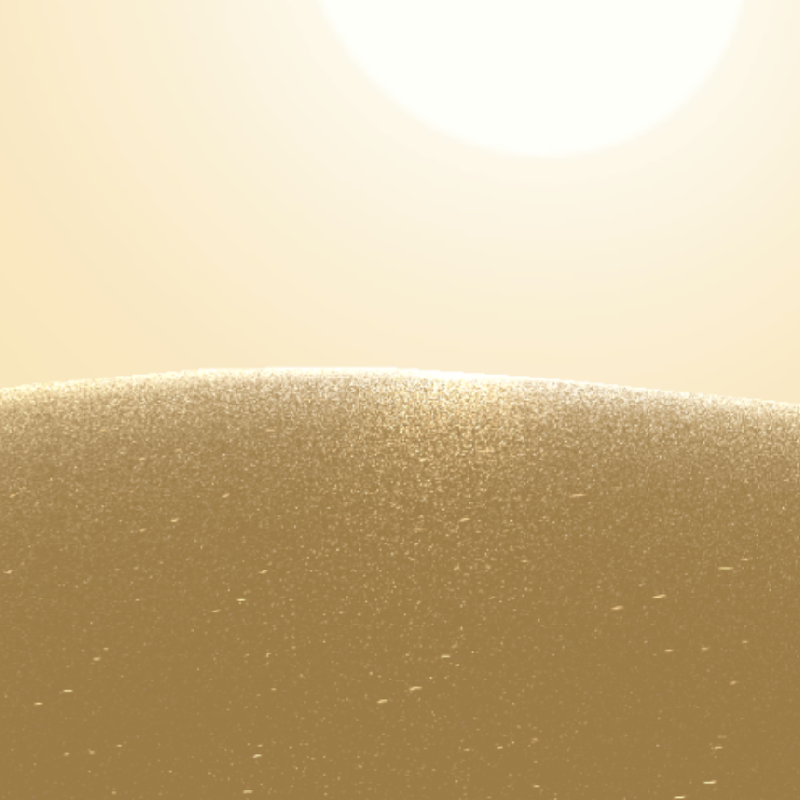
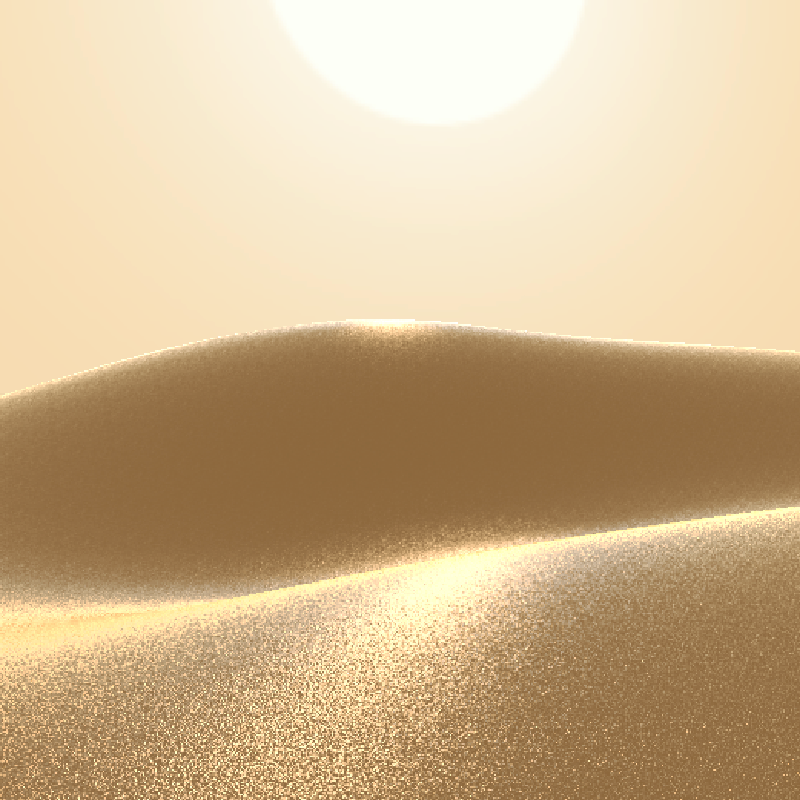
added projects

diff --git a/project_mars.html b/project_mars.html
@@ -1,0 +1,60 @@
+<!DOCTYPE html>
+<html lang="en">
+<head>
+    <!-- Google tag (gtag.js) -->
+    <meta name="viewport" content="width=device-width, initial-scale=1">
+    <title>Portfolio</title>
+    <link rel="icon" type="image/png" href="images/favicon.png" />
+
+    <meta name="description" content="The home of a pizza enthusiast!">
+    <meta property="og:locale" content="en_US" />
+    <meta property="og:type" content="website" />
+    <meta property="og:title" content="Lemon's Corner'" />
+    <meta property="og:description" content="The home of a pizza enthusiast!" />
+    <meta property="og:url" content="https://daneck.carrd.co" />
+    <meta property="og:image" content="" />
+    <meta property="og:image:type" content="" />
+    <meta property="og:site_name" content="Lemon's Corner'" />
+
+    <link rel="preconnect" href="https://fonts.googleapis.com">
+    <link rel="preconnect" href="https://fonts.gstatic.com" crossorigin>
+    <link href="https://fonts.googleapis.com/css2?family=Poppins:wght@400;700&display=swap" rel="stylesheet">
+    <link rel="stylesheet" href="css/style.css" />
+</head>
+<body>
+    <!--<header>-->
+        <p id="introduction">
+            <p id="introduction_name">Daniel Eckmann</p>
+            <p id="introduction_description"><b class="introduction_highlight">Technical Artist</b> and <b class="introduction_highlight">Animator</b> with a passion for abridging the worlds of design and tech.<br><i>Fresh graduate with a Master's in Games, artist with a strong technical background.</i>
+        </p>
+
+        <nav id="navmenu_wrapper">
+            <ul id="navmenu">
+                <a href="index.html"><li>Home</li></a>
+                <a href="aboutme.html"><li>About Me</li></a>
+                <a href="otherworks.html"><li>Other Works</li></a>
+                <a href="contact.html"><li>Contact</li></a>
+            </ul>
+        </nav>
+    <!--</header>-->
+
+    <div id="content">
+        <div id="content_shelf">
+            <p id="content_header">Mars Landscape</p>
+            <img src="images/projects/mars/mainshot.gif" class="project_image" style="width: 30vw;">
+        </div>
+    </div>
+
+    <div id="social_wrapper">
+        <ul id="social">
+            <li id="email"><a href="mailto:daniel.eckmann07@gmail.com" target="_blank"><img src="images/socials/email.png" class="social_icon"></a></li>
+            <li id="linkedin"><a href="https://www.linkedin.com/in/dan-eck/" target="_blank"><img src="images/socials/linkedin.png" class="social_icon"></a></li>
+            <li id="artstation"><a href="https://www.artstation.com/lemondraws" target="_blank"><img src="images/socials/artstation.png" class="social_icon"></a></li>
+            <li id="itch"><a href="https://l3mon.itch.io/" target="_blank"><img src="images/socials/itch.svg" class="social_icon"></a></li>
+        </ul>
+    </div>
+    <footer>
+        Copyright &copy; <script>document.write(new Date().getFullYear());</script>. All rights reserved.
+    </footer>
+</body>
+</html>

diff --git a/index.html b/index.html
@@ -41,6 +41,20 @@
     <div id="content">
         <div id="content_shelf">
             <p id="content_header">Technical Art</p>
+            <a href="project_mars.html">
+                <div class="content_readmore">
+                    <img src="images/projects/mars/cover.png" class="content_image">
+                    <div class="content_projecttitle">Mars Landscape</div>
+                    <div class="content_readmorepanel">Read More</div>
+                </div>
+            </a>
+            <a href="index.html">
+                <div class="content_readmore">
+                    <img src="images/projects/cs_smoke/cover.png" class="content_image">
+                    <div class="content_projecttitle">Responsive Smoke</div>
+                    <div class="content_readmorepanel">Read More</div>
+                </div>
+            </a>
             <a href="index.html">
                 <div class="content_readmore">
                     <img src="images/projects/journey_sand/cover.png" class="content_image">
@@ -50,20 +64,13 @@
             </a>
             <a href="index.html">
                 <div class="content_readmore">
-                    <img src="images/projects/placeholder.png" class="content_image">
-                    <div class="content_projecttitle">Project Title</div>
-                    <div class="content_readmorepanel">Read More</div>
-                </div>
-            </a>
-            <a href="index.html">
-                <div class="content_readmore">
-                    <img src="images/projects/placeholder.png" class="content_image">
-                    <div class="content_projecttitle">Project Title</div>
+                    <img src="images/projects/particles/cover.png" class="content_image">
+                    <div class="content_projecttitle">Particle Systems</div>
                     <div class="content_readmorepanel">Read More</div>
                 </div>
             </a>
         </div>
-        <div id="content_shelf">
+        <div id="content_shelf" style="display:none;">
             <p id="content_header">Animation</p>
             <a href="index.html">
                 <div class="content_readmore">
@@ -98,7 +105,7 @@
         </ul>
     </div>
     <footer>
-        Copyright &copy; 2023 Daniel Eckmann. All rights reserved.
+        Copyright &copy; <script>document.write(new Date().getFullYear());</script>. All rights reserved.
     </footer>
 </body>
 </html>

diff --git a/css/style.css b/css/style.css
@@ -80,6 +80,7 @@ ul#navmenu li#current {
 /* Content Wrapper */
 #content {
     margin: 5vh 0.3vw 5vh 0.3vw;
+    border-top: 1px dashed white;
 }
 
 /* Content Shelves */
@@ -98,12 +99,14 @@ ul#navmenu li#current {
     display: inline-block;
     margin: 0vh 1vw 0vh 1vw;
     width: 24vw;
+    border: 3px solid white;
 }
 .content_readmore {
     display: inline-block;
     position: relative;
     text-align: center;
     color: black;
+    margin-bottom: 2vh;
 }
 .content_readmore:hover > .content_readmorepanel {
     visibility: visible;
@@ -227,6 +230,11 @@ footer {
         left: 4vw;
         font-size: 3vh;
         padding: 0.5vw;
+    }
+
+    /* Project */
+    .project_image {
+        width: 100% !important;
     }
 
     /* Socials */
